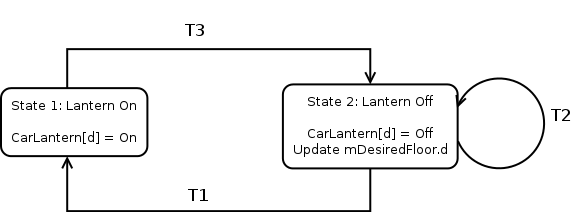
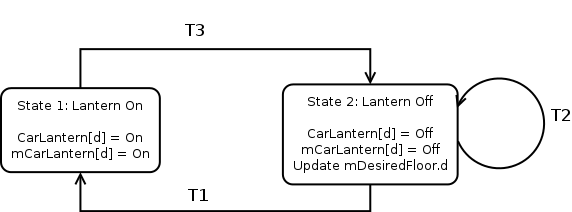
Updated LanternControl implementation, and State Diagrams

diff --git a/portfolio/unit_test/unit_test_log.html b/portfolio/unit_test/unit_test_log.html
@@ -118,7 +118,7 @@
                   color="blue"><font color="blue"><u><a
                         href="DriveControl.mf">DriveControl.mf</a></u></font></font></u><u>
               </u></font> </td>
-          <td style="vertical-align: top;">3/5<br>
+          <td style="vertical-align: top;">4/6<br>
           </td>
           <td style="vertical-align: top;">62<br>
           </td>

diff --git a/portfolio/elevatorcontrol/LanternControl.java b/portfolio/elevatorcontrol/LanternControl.java
@@ -22,8 +22,11 @@ import simulator.framework.ReplicationComputer;
 import simulator.framework.Side;
 import simulator.payloads.CanMailbox;
 import simulator.payloads.CanMailbox.ReadableCanMailbox;
+import simulator.payloads.CanMailbox.WriteableCanMailbox;
 import simulator.payloads.CarLanternPayload;
 import simulator.payloads.CarLanternPayload.WriteableCarLanternPayload;
+import simulator.payloads.translators.BooleanCanPayloadTranslator;
+
 
 
 public class LanternControl extends Controller {
@@ -44,6 +47,9 @@ public class LanternControl extends Controller {
     private DesiredFloorCanPayloadTranslator mDesiredFloor;
 
     private WriteableCarLanternPayload carLantern;
+    
+    private WriteableCanMailbox networkCarLantern;
+    private BooleanCanPayloadTranslator mCarLantern;
 
     private int CurrentFloor;
     private Direction DesiredDirection;
@@ -66,29 +72,43 @@ public class LanternControl extends Controller {
         this.direction = direction;
 
         log("Created LanternControl with period = ", period);
-
+        // Output:
+        // CarLantern
         carLantern = CarLanternPayload.getWriteablePayload(direction);
         physicalInterface.sendTimeTriggered(carLantern, period);
+        
+        // mCarLantern
+        networkCarLantern = CanMailbox.getWriteableCanMailbox(
+        				  MessageDictionary.CAR_LANTERN_BASE_CAN_ID);
+        mCarLantern = new BooleanCanPayloadTranslator(networkCarLantern);
+        canInterface.sendTimeTriggered(networkCarLantern, period);
 
+        // Input:
+        // mDoorClosed - Front Left
         networkDoorClosedFrontLeft = CanMailbox.getReadableCanMailbox(MessageDictionary.DOOR_CLOSED_SENSOR_BASE_CAN_ID + ReplicationComputer.computeReplicationId(Hallway.FRONT, Side.LEFT));
         mDoorClosedFrontLeft = new DoorClosedCanPayloadTranslator(networkDoorClosedFrontLeft, Hallway.FRONT, Side.LEFT);
         canInterface.registerTimeTriggered(networkDoorClosedFrontLeft);
 
+        // mDoorClosed - Front Right
         networkDoorClosedFrontRight = CanMailbox.getReadableCanMailbox(MessageDictionary.DOOR_CLOSED_SENSOR_BASE_CAN_ID + ReplicationComputer.computeReplicationId(Hallway.FRONT, Side.RIGHT));
         mDoorClosedFrontRight = new DoorClosedCanPayloadTranslator(networkDoorClosedFrontRight, Hallway.FRONT, Side.RIGHT);
         canInterface.registerTimeTriggered(networkDoorClosedFrontRight);
 
+        // mDoorClosed - Back Left
         networkDoorClosedBackLeft = CanMailbox.getReadableCanMailbox(MessageDictionary.DOOR_CLOSED_SENSOR_BASE_CAN_ID + ReplicationComputer.computeReplicationId(Hallway.BACK, Side.LEFT));
         mDoorClosedBackLeft = new DoorClosedCanPayloadTranslator(networkDoorClosedBackLeft, Hallway.BACK, Side.LEFT);
         canInterface.registerTimeTriggered(networkDoorClosedBackLeft);
 
+        // mDoorClosed - Back Right
         networkDoorClosedBackRight = CanMailbox.getReadableCanMailbox(MessageDictionary.DOOR_CLOSED_SENSOR_BASE_CAN_ID + ReplicationComputer.computeReplicationId(Hallway.BACK, Side.RIGHT));
         mDoorClosedBackRight = new DoorClosedCanPayloadTranslator(networkDoorClosedBackRight, Hallway.BACK, Side.RIGHT);
         canInterface.registerTimeTriggered(networkDoorClosedBackRight);
 
+        // mDesiredFloor
         networkDesiredFloor = CanMailbox.getReadableCanMailbox(MessageDictionary.DESIRED_FLOOR_CAN_ID);
         mDesiredFloor = new DesiredFloorCanPayloadTranslator(networkDesiredFloor);
         canInterface.registerTimeTriggered(networkDesiredFloor);
+        
 
         floorArray = new AtFloorArray(canInterface);
         DesiredDirection = Direction.STOP;
@@ -102,6 +122,7 @@ public class LanternControl extends Controller {
         switch (state) {
             case STATE_LANTERN_OFF:
             	carLantern.set(false);
+            	mCarLantern.set(false);
             	CurrentFloor = floorArray.getCurrentFloor();
 
             	if(CurrentFloor != MessageDictionary.NONE) {
@@ -129,6 +150,7 @@ public class LanternControl extends Controller {
                 break;
             case STATE_LANTERN_ON:	
             	carLantern.set(true);
+            	mCarLantern.set(true);
                 //#transition '7.T.3'
             	if(mDoorClosedFrontLeft.getValue() == true && 
             		mDoorClosedFrontRight.getValue() == true &&
